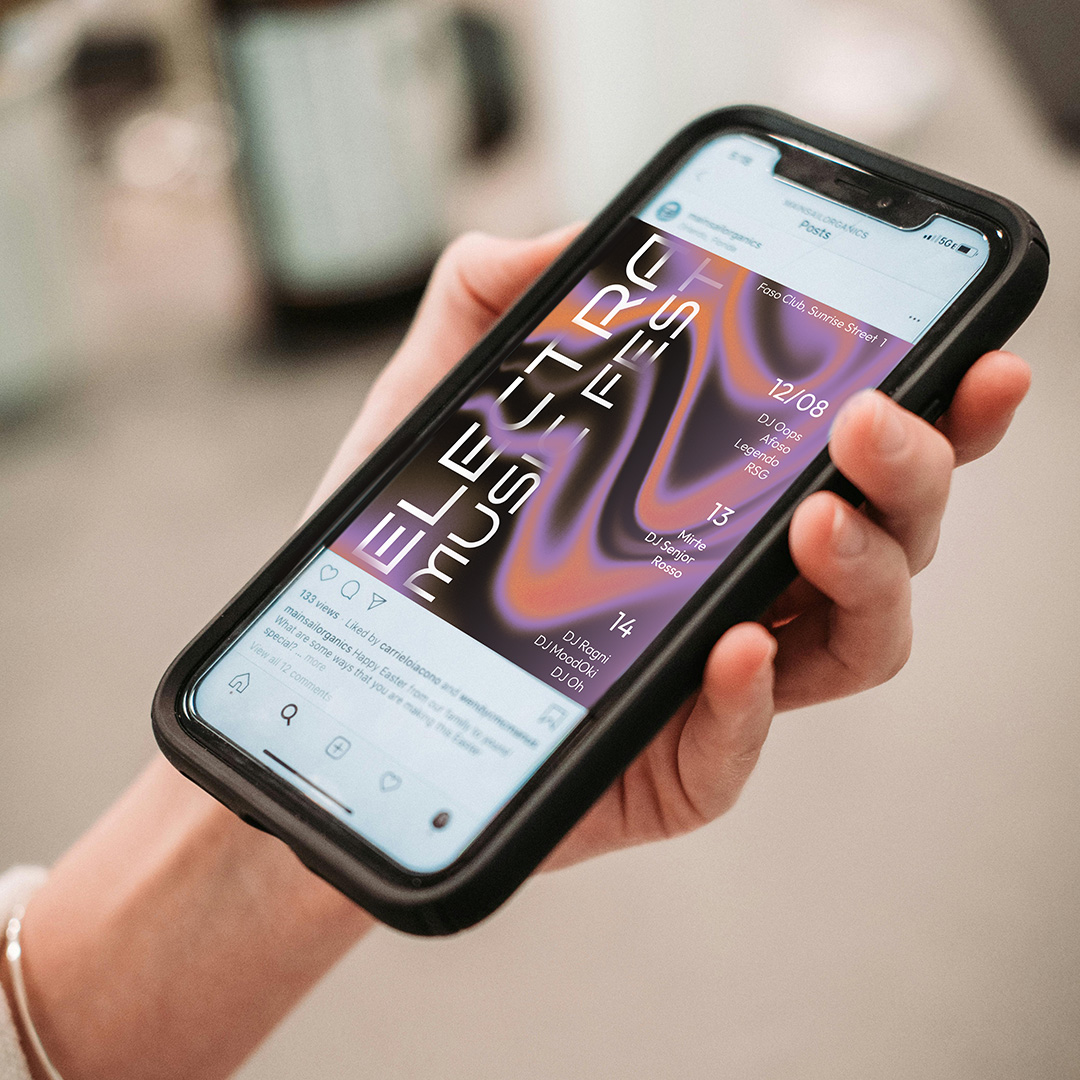
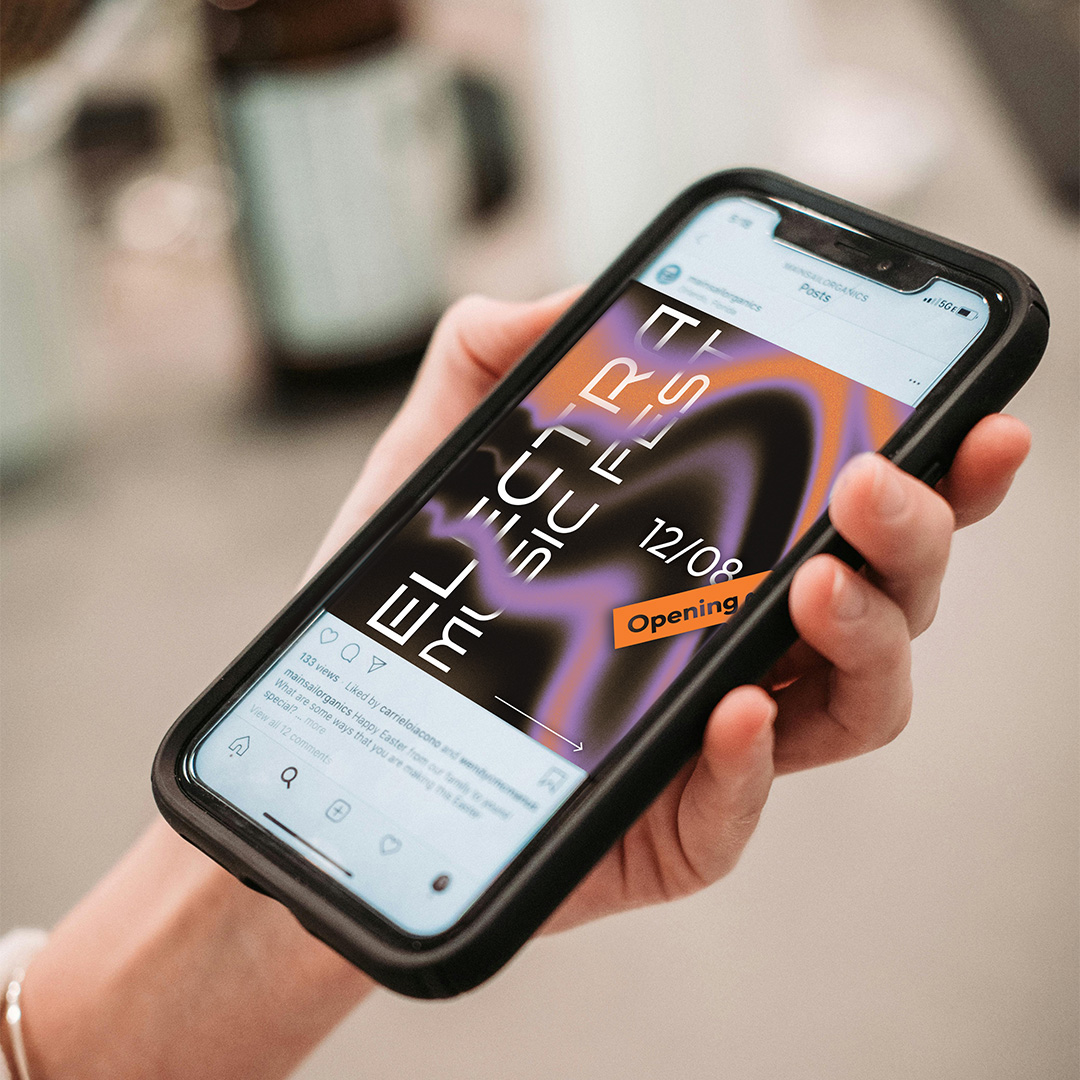
Added social media mockups

diff --git a/projects/electra.html b/projects/electra.html
@@ -119,6 +119,18 @@
                   height="1080px"
                 />
               </div>
+              <div
+                class="f-carousel__slide"
+                data-thumb-src="../media/portfolio/all/project-1/img-6.jpg"
+                data-fancybox="gallery"
+                data-src="../media/portfolio/all/project-1/img-6.jpg"
+              >
+                <img
+                  data-lazy-src="../media/portfolio/all/project-1/img-6.jpg""
+                  width="1080px"
+                  height="1080px"
+                />
+              </div>
             
               
           </div>